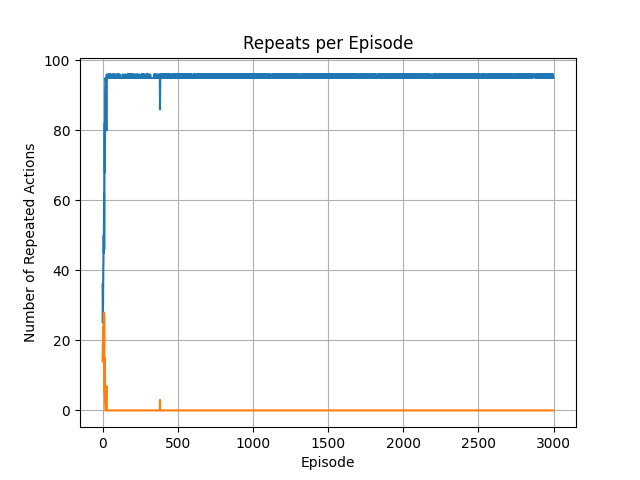
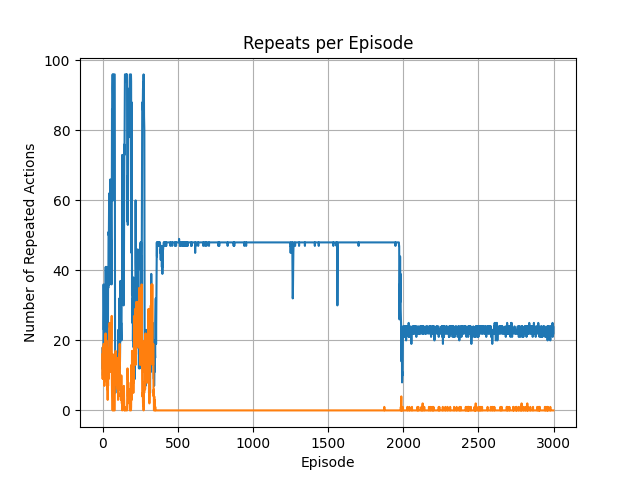
rotates between 3

Changed region(s): [[0.1562, 0.125, 0.875, 0.875], [0.625, 0.6562, 0.875, 0.7812], [0.625, 0.8438, 0.875, 0.875]]

diff --git a/SULI/src/tensorForceEnv.py b/SULI/src/tensorForceEnv.py
@@ -127,7 +127,7 @@ class CustomEnvironment(Environment):
 
 
     def states(self):
-        return dict(type='float', shape=(len([self.shape[1][findLastNonLen(self.shape[1], self.SAMPLES)], self.shape[1][findLastNonLen(self.shape[1], self.SAMPLES) - 1]]),))
+        return dict(type='float', shape=(len([self.shape[1][self.agent_pos - 2], self.shape[1][self.agent_pos - 1]]),))
 
     def actions(self):
         return dict(type='int', num_values=self.SAMPLES)
@@ -162,7 +162,7 @@ class CustomEnvironment(Environment):
         for i in range(self.SAMPLES):
             self.minSampling[i] = 0
         # here we convert to float32 to make it more general (in case we want to use continuous actions)
-        return np.array([0, 0]).astype(np.float32)
+        return np.array([self.shape[1][self.agent_pos - 2], self.shape[1][self.agent_pos - 1]]).astype(np.float32)
 
     def execute(self, actions):
         # self.extraCounter += 1
@@ -180,7 +180,7 @@ class CustomEnvironment(Environment):
                 self.reward -= 1
                 self.repeatCounter += 1
             elif actions == self.shape[1][self.agent_pos - 2]:
-                self.reward += 0
+                self.reward -= 1
                 self.skippedRepeat += 1
             # elif actions == maxStdDev[0]:
             #     self.reward += 3
@@ -189,7 +189,7 @@ class CustomEnvironment(Environment):
             # elif actions == maxStdDev[2]:
             #     self.reward += 1
             else:
-                self.reward += 5
+                self.reward += 1
                 # print(maxStdDev, actions)
             # if self.agent_pos <= self.TRIALS:
             self.shape[0][self.agent_pos] = self.agent_pos
@@ -228,7 +228,7 @@ class CustomEnvironment(Environment):
                 CustomEnvironment.sum += reward
             print(self.minSampling)
         print("check", self.shape[1])
-        returning = np.array([self.shape[1][findLastNonLen(self.shape[1], self.SAMPLES)], self.shape[1][findLastNonLen(self.shape[1], self.SAMPLES) - 1]]).astype(np.float32), reward, done
+        returning = np.array([self.shape[1][self.agent_pos - 2], actions]).astype(np.float32), reward, done
         return returning
 
 def runEnv():
